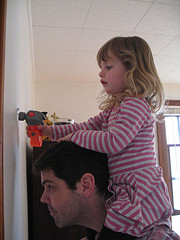
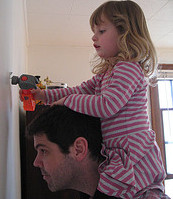
cropping image

diff --git a/css/default.scss b/css/default.scss
@@ -155,12 +155,12 @@ div.sitesearch p {
     margin-left: auto; 
     margin-right: auto; 
     padding: 1em 2em 1em 2em; 
-    width: 180px
+    width: 173px;
 } 
 
 .home_image img {
 	border: thin;
-    width: 180px;
+    width: 173px;
     display: block;
 }
 
